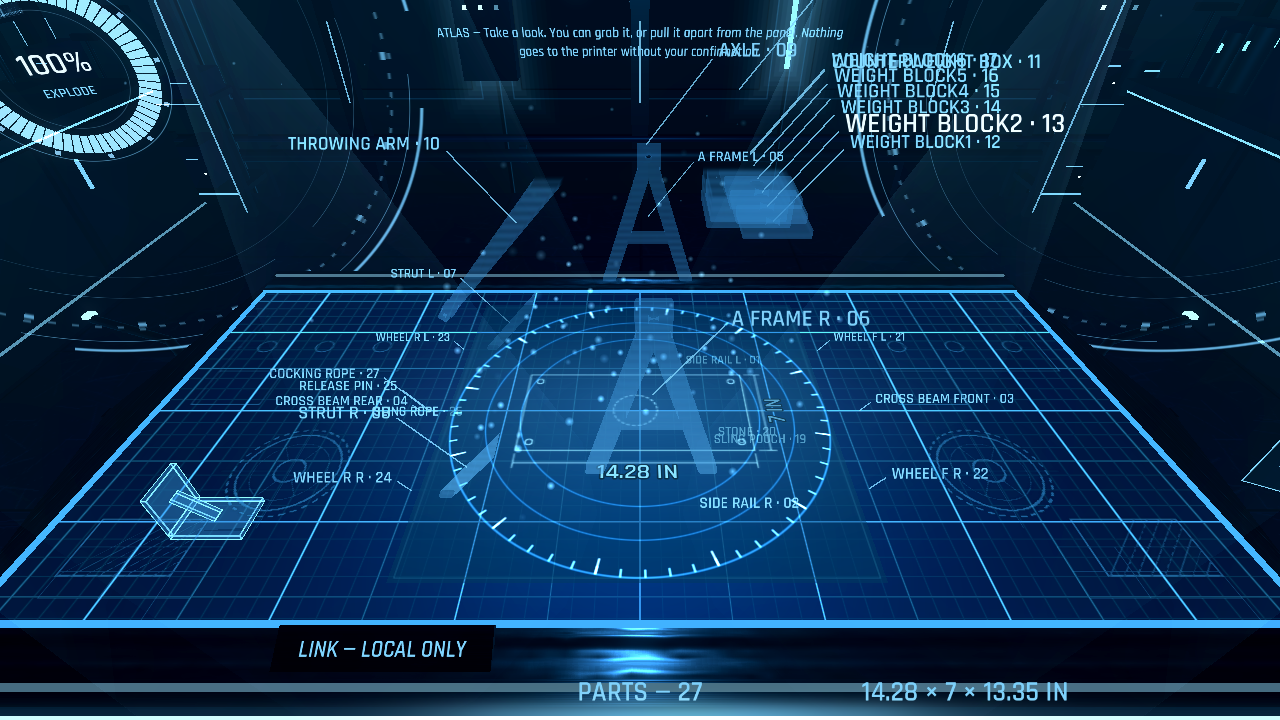
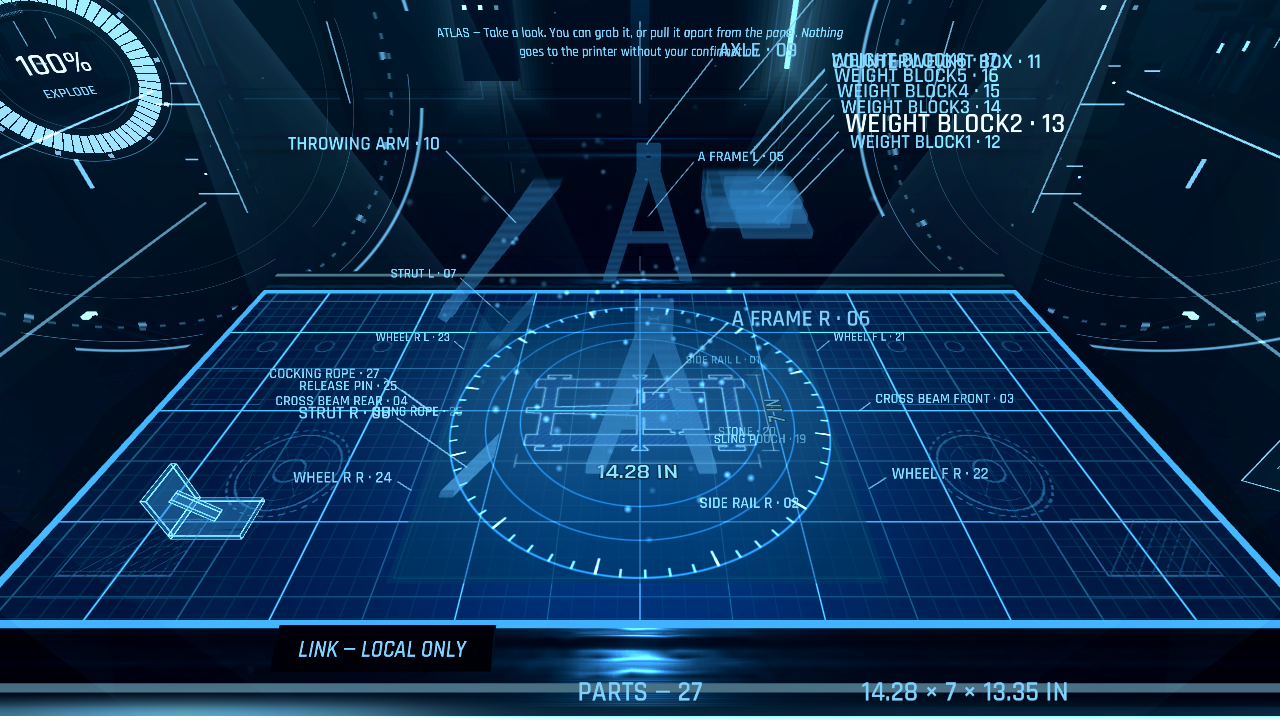
Round 2 (Helios takeover): smoothness + Stark feel — haptics, easing pass, skippable boot, hub greeting, CAD stage narration, panel idle-render fix, deferred schematic paint, whole-model hover, real brain tier; fixes: capped Sfx.play_and_wait (uncapped finished-signal hang), hub probe timeout 2s->5s

diff --git a/WIP-STATE.md b/WIP-STATE.md
@@ -3,6 +3,81 @@
 Checkpoint file per Jon's standing order (Claude limit protocol). Start
 here after any interruption; then check git status/diff.
 
+## ROUND 2 (BRIEF-round2.md, brief #17) — DONE 2026-11-20 ~11:05 ET (Helios takeover build)
+All 11 items coded by Helios directly (Claude session limit). Verified:
+ALL 7 suites PASS — explode, panel, interaction, print_flow, silhouette,
+failure, and the full round1b exercise 12/12 (exit 0) against the mock
+hub; PERF 76 draw calls / 3 lights with a CAD model on stage (budget 90).
+Exported builds/AtlasHolodeck.apk = 83,132,355 bytes; artifact gates
+verified by Helios (--xr_mode_openxr, libopenxr_loader.so, RECORD_AUDIO,
+package com.jondude.holodeck, hub_secret baked, signer SHA-256 IDENTICAL
+to the installed Round 1B build so it installs over it). Round 1B APK
+kept as builds/AtlasHolodeck-round1b.apk.
+TWO REAL BUGS found + fixed by the exercise (both pre-existing risks,
+not Round 2 regressions): (1) Sfx.play_and_wait awaited the raw audio
+`finished` signal uncapped — under a windowed dummy-audio run it never
+fired and boot hung forever before voice start; now deadline-capped
+(clip length + 1.5 s). (2) Hub probe timeout 2.0 s was too tight for a
+frame-polled HTTPRequest on a loaded renderer — the probe falsely
+reported LOCAL ONLY and voice arming fell into the long retry backoff;
+_status_ok + _fetch_brain now 5.0 s. (The sandbox's llvmpipe <1 FPS
+boot is what exposed both; on the Quest at 72-90 FPS neither bit, but
+the fixes are strictly safer.) Jon's steering (2026-11-20): TABLE
+FUNCTION FIRST — hobbyist engineering workspace; atmosphere secondary;
+backlog header carries the rule. Firewall blocker RESOLVED same day
+(UFW LAN rule added with Jon-provided sudo; LAN path proven from the
+Pi) — in-headset voice/CAD unblocked. NEXT: Round 2.5 Parts Library.
+
+## ⚠ CLAUDE SESSION LIMIT — TAKEOVER RECORD (2026-11-20 ~09:58 ET)
+The Round 2 Claude Code run (BRIEF-round2.md) hit the session limit
+IMMEDIATELY ("You've hit your session limit · resets 12:40pm
+America/New_York") — it changed NO code. Per Jon's takeover order,
+Helios coded Round 2 DIRECTLY in this tree (same brief, same gates).
+When Claude resumes, it re-reads this file + git log/diff first.
+Round 1B commit+push DID complete before the stall: remote head
+de6cfe58 (hub_secret not in commit — verified count 0).
+Takeover progress (Helios, direct):
+- [x] R2-10 render settings: project.godot — MSAA 2x (anti_aliasing/
+  quality/msaa_3d=2), openxr/display_refresh_rate=90.0, foveation_level=2.
+  On-device effect is Jon-verifiable only.
+- [x] R2-7 CAD stage narration: cad_bench.gd maps the hub job's real
+  `stage` (queued/writing/repairing/building/fetching/saving) into the
+  status text with elapsed seconds (was one blanket "BUILDING n s").
+- [x] R2-11 real brain tier: hub /atlas/voice-status now returns
+  brain_model + brain_local (DEPLOYED to Obelisk 2026-11-20, backup
+  atlas_voice.py.bak-20261120-r2, md5 verified, atlas-server restarted;
+  phone routes re-verified: status 200, ask POST 401 w/o token,
+  transcribe 200). Live answer: atlas:14b / local=true. App: Hub.probe
+  fetches the tier after a base wins; HUD shows e.g. "LOCAL · ATLAS:14B",
+  "HUB" if the fetch fails, "OFFLINE" if no hub. (Was blanket "HERMES".)
+- [x] R2-8 skippable boot: any controller button (or desktop key) kills
+  the boot tweens, sets final ring/fade state, runs the normal
+  completion once (_boot_finished guard). Headless boot verified clean.
+- [x] R2-1 haptics: hand.gd buzz() (no-op unless XrBoot.ready_ok) wired
+  to grab (0.03s/0.5), release (0.02/0.3), bench select (0.04/0.45),
+  panel poke (0.015/0.25), materialize-complete both hands (0.06/0.3).
+- [x] R2-3 easing: app/ease.gd (class_name Ease — mv = cubic-out,
+  fd = sine-in-out); the linear materialize fades, tether/readout
+  fades and button-press fade now use it. NOTE: after adding a
+  class_name file, run `godot --headless --path app --import` once or
+  every script fails with "Identifier Ease not declared".
+- [x] R2-2 hover: parked models glow whole-model (model.set_all_hot,
+  flash 0.6 all parts, labels untouched) as the bench-select affordance;
+  active-model per-part hover unchanged; panel buttons already had
+  hover styleboxes.
+- [x] R2-9 hub greeting: main._greet() — hub answered => Atlas speaks a
+  time-of-day greeting via hub TTS (say()); offline => recorded clips.
+  2.5 s grace for the un-awaited boot probe. confirm_render follows both.
+- [x] R2-6 panel: idle is now UPDATE_WHEN_DIRTY + a 5 s safety pulse
+  (was a full re-render every 0.5 s, ~34 draw calls each, forever).
+- [x] R2-4/R2-5 hitch: model._build_schematic no longer paints inline;
+  the silhouette texture is painted in a deferred call and materialize's
+  schematic fade waits for it (_schem_fade_pending). Same path serves
+  the boot demo bracket (R2-5). Paint cost itself unchanged (~0.4 s on
+  its own frame instead of stacked onto the spawn frame).
+- [ ] Full test suites + headless boot + export + gates + captures —
+  IN PROGRESS (Helios).
+
 ## ROUND 1B (BRIEF-round1b.md, brief #16) — DONE 2026-11-20, exported, awaiting Jon's headset feel-test
 No git commits made. Hub source of truth: `~/workspace/atlas-overlay-build/repo/obelisk/atlas_voice.py` (pre-change copy kept at
 `.atlas_voice.py.pre-round1b`). **DEPLOYED to the live hub** (Obelisk /home/jon/Projects/Anzu-1/obelisk/atlas_voice.py, md5 148e6ae4...;

diff --git a/ITERATION-BACKLOG.md b/ITERATION-BACKLOG.md
@@ -5,6 +5,8 @@
 `design/concept-target-04.webp` against `captures/shot-04` and `shot-07`. No code was run on a headset; nothing here is
 frame-time-measured. Evidence cites file:line where I read it. Items I could not prove from code are marked **(unverified)**.
 
+**JON'S PRIORITY ORDER (2026-11-20, steering all rounds):** this is a hobbyist ENGINEERING WORKSPACE — the table and what it can DO come first; visuals and atmosphere are welcome but secondary. Get the table working the way the Agents of SHIELD holotable worked: a real work surface you manipulate designs on (drag/spin/scale/bench/labels/schematic), not a display pedestal. When a round forces a trade-off, table function wins over ambience; Round 3's living-lab dressing stays capped and never displaces table work.
+
 Legend: **PRESENT** works as specced · **PARTIAL** exists, weaker than spec (how) · **MISSING** not there.
 
 ## 1. Feature table
@@ -181,3 +183,13 @@ Order: R1-1, R1-2, R1-3 (core interaction) → R1-10, R1-4 → R1-5, R1-6 → R1
 - Everything Jon-only (feel, mic, TTS audibility, frame time) can only be closed by a headset session; the floor-height retest (§7 bug #2) and the first real PTT/CAD run are still outstanding from the combined build and should come first.
 - The explode-with-real-multipart risk (R1-10) and the panel overflow (R1-6) are cheap to confirm headlessly and should be checked before any other build work.
 - Wake word remains off by design; not part of this backlog.
+
+### Round 2.5 — Parts Library (Jon, 2026-11-20)
+| ID | Item | Size | Verification |
+|---|---|---|---|
+| R2.5-1 | **Parts Library panel**: lists every part Jon has made from the Athena save-back library (`3d-work/out/holodeck/<name>-<job_id>/` — model.py/.step/.glb + manifest per part), served by the hub (list route, additive). Name + dims + date from the manifest. | M | H: mock library; J |
+| R2.5-2 | **Fetch on click**: tapping a library entry fetches its .glb (+ script context) from Athena via the hub and materializes it at table centre as the active design (bench rules apply — the current model parks). It also becomes the follow-up-edit target, as if just created. | M | H: exercise vs mock; J |
+| R2.5-3 | **Edit action** (icon on each entry): loads the part (as R2.5-2) and puts Atlas in edit mode for it — the next "make it…" utterance revises that design in place (R1-4 machinery). | S | H: exercise; J |
+| R2.5-4 | **Delete action** (icon on each entry): deletes the part's library folder on Athena — **confirmation-gated** (a confirm card naming the part; cancel/timeout = nothing deleted; delete is a confirm-class action per Atlas guardrails). Hub route additive + token-gated; the deletion is logged. | M | H: flow test incl. cancel path; J |
+| R2.5-5 | **Imported STLs** (Jon, 2026-11-20): STLs Jon saves from other sites (Printables/Thingiverse/etc.) into a drop folder in the Athena 3D tree (`3d-work/library/`) appear in the same Parts Library and render on the table. Hub/worker converts STL -> GLB (cached beside the STL; trimesh on the Athena worker). **Units: STL is unitless — interpret as mm (site standard) and convert exactly; dims shown in inches from the converted bounds.** Entry name from filename; single-part (no named sub-parts, no manifest). Imported entries support fetch/render + send-to-print + delete (same confirm gate), but NOT voice edit-in-place (no build123d source) — the edit icon is shown only for Holodeck-created parts. | M | H: drop a known STL (e.g. a 20 mm calibration cube) -> library lists it at 0.79 in; renders at true size; J |
+| R3-11 | **Living lab background** (Jon, 2026-11-20; research DONE same day, report in ~/workspace/research_notes/iron-man-vr-lab-design-20261120-1508/report.md): KEY FINDING — the Iron Man VR game's garage has NO robot arms (Dum-E/U are film-only); its life comes from (a) functions sorted spatially (centre station / left codex table / right spinnable globe), (b) TWO resident hologram AI characters pinned to stations with idle motion + banter, (c) ambient screens + rotating codex holograms, (d) progress visible in the room (slots that fill), (e) purposeless hand toys. Build for Holodeck: ambient hologram activity (rotating schematics, scrolling data panels), a station-pinned Atlas hologram presence at a side station, progress/readout wall tied to REAL data (job history, library count), PLUS Jon's explicit ask from the film language: ONE original-design robot arm on a believable task loop (scan -> tend a side project -> spark/'help' beat) — original design, no Marvel assets/names/likenesses. All inside draw-call/light budget. | M-L | H: captures + draw-call count; J: 'alive' read |

diff --git a/SPEC.md b/SPEC.md
@@ -492,3 +492,44 @@ when I install it and put it on"):**
   Jon's first in-headset session.
 - Whether the CAD job rides Hermes delegation or a dedicated hub endpoint — the hub
   lane decides during voice-link work; the app's contract is "POST a job, get a .glb".
+
+### Round 2 additions (brief #17, 2026-11-20 — Helios takeover build)
+
+Built by Helios directly under Jon's Claude-limit takeover order (the
+Claude session limit stalled the run; resets 12:40 ET). Same gates.
+
+- **Render settings (R2-10).** project.godot: MSAA 2x, OpenXR display
+  refresh request 90 Hz, foveation level 2. On-device effect is
+  headset-verifiable only; headless frame baseline comes from
+  tools/perf_probe.gd draw-call counts.
+- **CAD stage narration (R2-7).** The bench status now reads the hub
+  job's real stage — QUEUED / WRITING / REPAIRING / BUILDING /
+  FETCHING / SAVING — with elapsed seconds, instead of one blanket
+  BUILDING for the whole wait.
+- **Real brain tier (R2-11).** /atlas/voice-status reports the hub's
+  configured chat model + locality (brain_model, brain_local). The HUD
+  BRAIN line shows it (e.g. "LOCAL · ATLAS:14B"), "HUB" when the tier
+  fetch fails, "OFFLINE" when no hub answers. Replaces the blanket
+  "HERMES" label, which claimed a tier the app could not know.
+- **Skippable boot (R2-8).** Any controller button press (or a desktop
+  key) during the ring sequence jumps to the normal completion path;
+  the greeting and materialize still happen. A guard prevents the
+  completion running twice.
+- **Haptics (R2-1).** Short pulses on grab, release, bench select,
+  panel poke, and materialize-complete. No-ops unless XR is live.
+- **Easing (R2-3).** app/ease.gd is the one easing language (cubic-out
+  for motion, sine-in-out for fades); the previously linear fades use
+  it. Designed exceptions (panel pop, boot fill) are documented there.
+- **Hover (R2-2).** A parked model under the ray now glows as one
+  whole selectable object; active-model per-part hover is unchanged.
+- **Hub greeting (R2-9).** When the hub answers the boot probe, the
+  greeting is spoken by the hub's voice with the time of day; the
+  recorded clips are the offline fallback.
+- **Panel rendering (R2-6).** Idle panel viewport is DISABLED between
+  a 5 s safety pulse (was: full re-render every 0.5 s). All content
+  changes funnel through poke(); expiry draws one final frame.
+- **Spawn/boot hitch (R2-4/R2-5).** The silhouette texture paint
+  (~0.35-0.45 s) no longer runs inside the model's _ready; it is
+  deferred a frame and materialize's schematic fade waits for it.
+  The paint still costs what it costs — it no longer stacks onto the
+  spawn/boot frame.
